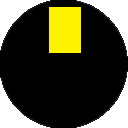
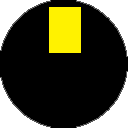
Turret image, Coins and Coinspawner
Now the coins spawn correctly, the spawning rates has been decreased but
the travelling speed of the coins has been increased. The turret image
has been changed to blend in

diff --git a/Assets/Games/Anton/Coins/scripts/CoinSpawner.cs b/Assets/Games/Anton/Coins/scripts/CoinSpawner.cs
@@ -18,8 +18,8 @@ public class CoinSpawner : MonoBehaviour {
 
         m_turning = 0;//the amount of degrees the player has turned
         m_currentTime = 0;
-        m_timeBetweenCoins = 2.3f;
-        m_startVelocity = 15.0f;
+        m_timeBetweenCoins = 3.3f;
+        m_startVelocity = 30.0f;
     }
 
     // Update is called once per frame
@@ -31,14 +31,14 @@ public class CoinSpawner : MonoBehaviour {
             m_currentTime -= m_timeBetweenCoins;//decreased by the time since last coin
             if (m_timeBetweenCoins > 0.35)//increases the firing speed with a maximum firing speed at 1/0.35 shots per second (almost 3 shots per second)
             {
-                m_timeBetweenCoins -= 0.05f;
+                m_timeBetweenCoins -= 0.02f;
             }
             GameObject newCoin = (GameObject)Instantiate(m_coin, transform.position, transform.rotation);//sets it to the same position and rotation 
             newCoin.GetComponent<Rigidbody2D>().AddForce(m_startVelocity * -1 * transform.up);
             //sets the velocity indirectly by adding a force
             if (m_turning < 90)
             {
-                transform.Rotate(Vector3.forward, 35);
+                transform.Rotate(Vector3.forward, 15);
                 m_turning += 15;
             }
             else
